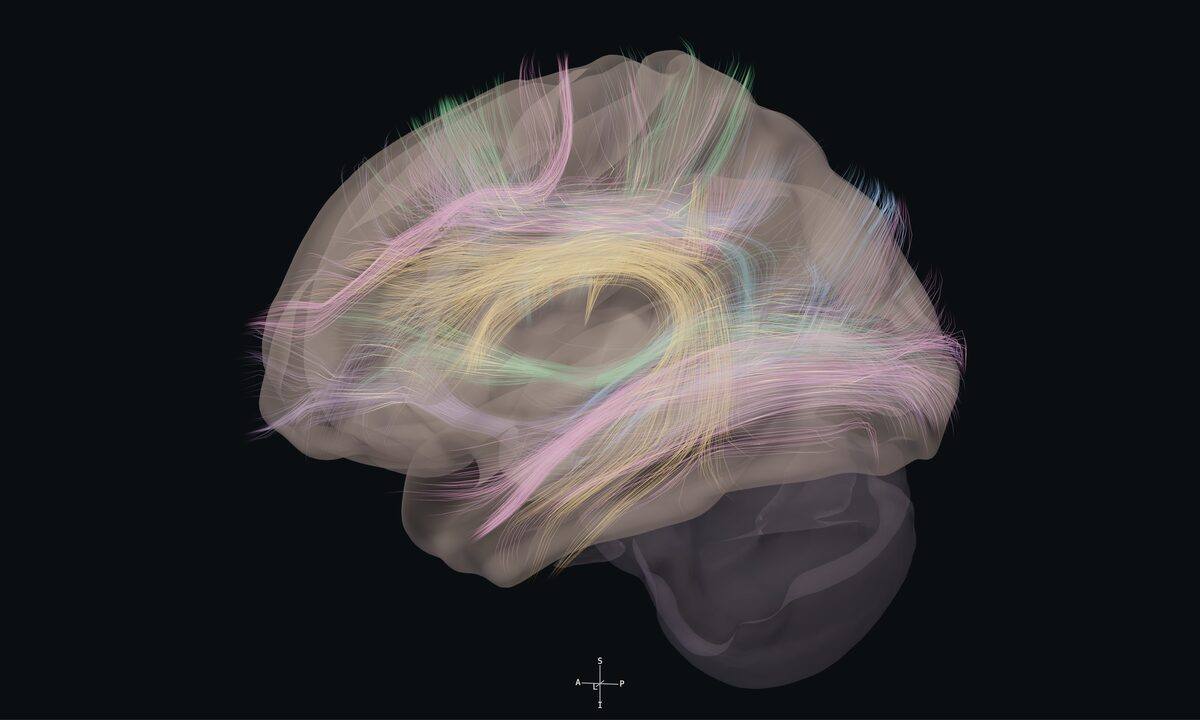
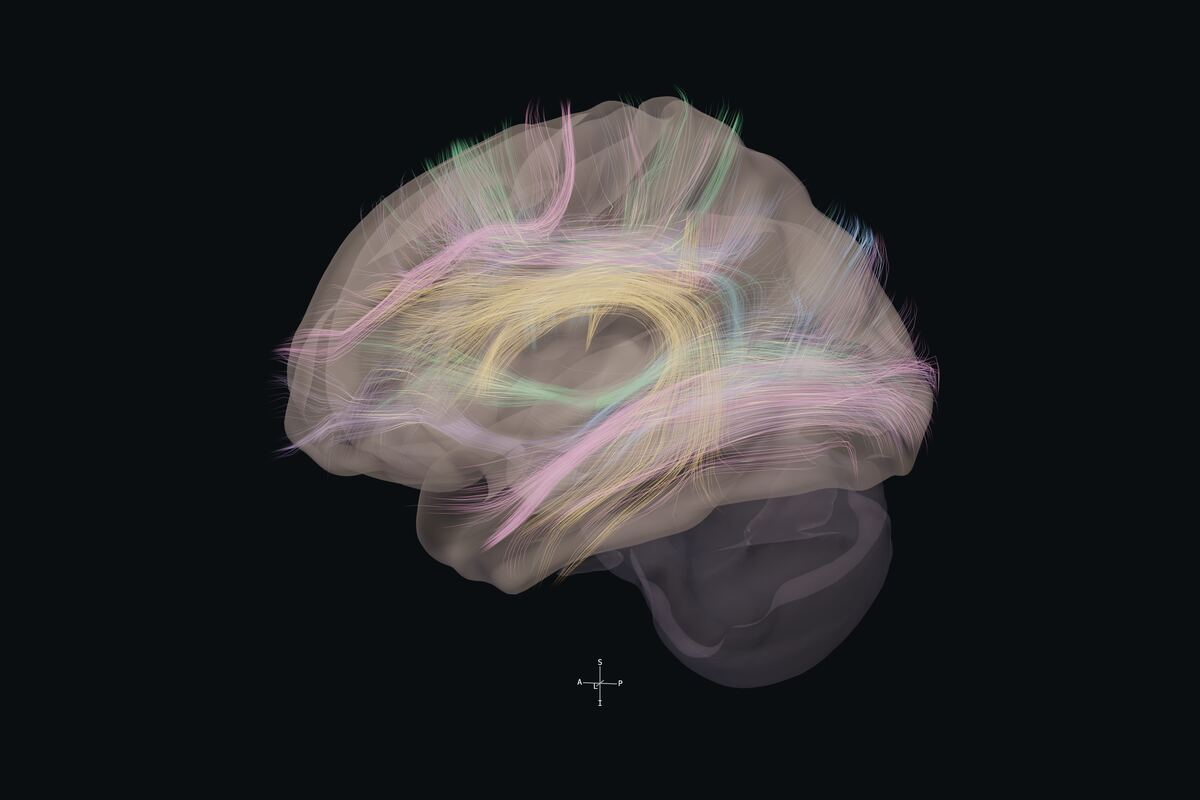
fix(landing): show the whole plate and fill every frame with anatomy
- Hero becomes a two-column grid: copy left, the crisp superior tract plate
  right with object-fit contain, so no pole is cropped at any width; the
  plate is the launch-kit capture (3x) rather than the ghosted re-capture.
- Every family, lesson and move frame is trimmed to the anatomy before
  fitting, so the brains fill their boxes instead of floating in dark stage.
- Content sections cap at a readable width on wide screens; lesson rows run
  in two columns above 1500 px; the Case Conference plate is shown whole.

Claude-Session: https://claude.ai/code/session_01QdqKjfjxKtYtLqsH6N28s7

Changed region(s): [[0.185, 0.0611, 0.8017, 0.9778], [0.4933, 0.9472, 0.5242, 0.9778]]

diff --git a/viewer/landing.css b/viewer/landing.css
@@ -23,27 +23,29 @@ main.landing{max-width:none;margin:0;padding:0}
 .landing .cta-secondary{border:calc(var(--space-3xs) / 2) solid var(--color-rule-2);color:var(--color-ink)}
 
 /* Full-bleed plate, shared header, bottom-aligned copy and capture caption. */
-.hero{position:relative;isolation:isolate;display:flex;flex-direction:column;min-height:calc(var(--space-3xl) * 8.5);background:var(--color-stage)}
-.hero-plate,.hero-scrim{position:absolute;inset:0;z-index:-1}
-.hero .hero-plate img{width:100%;height:100%;object-fit:cover;object-position:center 35%}
-.hero-scrim{background:linear-gradient(90deg,var(--color-paper) 0%,color-mix(in oklab,var(--color-paper) 55%,transparent) 45%,transparent 75%);pointer-events:none}
-.hero .studio-header{position:relative;top:auto;background:transparent;padding:var(--space-md) var(--page-gutter);min-height:calc(var(--control-height) + var(--space-xl))}
+.hero{position:relative;isolation:isolate;display:grid;grid-template-columns:minmax(0,5fr) minmax(0,7fr);grid-template-rows:auto minmax(0,1fr) auto;column-gap:var(--space-xl);background:var(--color-stage)}
+.hero-scrim{position:absolute;inset:0;z-index:-1}
+.hero-plate{grid-column:2;grid-row:2;position:relative;z-index:-2;display:flex;justify-content:flex-end;align-items:center;min-width:0;padding-right:var(--page-gutter)}
+.hero .hero-plate img{width:auto;max-width:100%;height:clamp(calc(var(--space-3xl) * 5.5),78vh,calc(var(--space-3xl) * 9.5));object-fit:contain}
+.hero-scrim{background:linear-gradient(90deg,var(--color-paper) 0%,color-mix(in oklab,var(--color-paper) 55%,transparent) 38%,transparent 52%);pointer-events:none}
+.hero .studio-header{grid-column:1 / -1;grid-row:1;position:relative;top:auto;background:transparent;padding:var(--space-md) var(--page-gutter);min-height:calc(var(--control-height) + var(--space-xl))}
 .hero .studio-header nav{width:auto;gap:var(--space-xs)}
 .hero .studio-header nav a{font-size:var(--text-sm);padding:0 var(--space-sm)}
-.hero-copy{position:relative;min-width:0;max-width:calc(var(--space-3xl) * 7);margin-top:auto;padding:var(--space-2xl) var(--page-gutter) var(--space-lg);display:flex;flex-direction:column;gap:var(--space-lg)}
+.hero-copy{grid-column:1;grid-row:2;align-self:end;position:relative;min-width:0;max-width:calc(var(--space-3xl) * 7);padding:var(--space-2xl) var(--page-gutter) var(--space-lg);display:flex;flex-direction:column;gap:var(--space-lg)}
 .hero-copy .lede{color:var(--color-ink)}
 .hero-actions{display:flex;align-items:center;gap:var(--space-md)}
 .hero-actions .cta{flex:none}
 .hero-actions .hero-note{font-size:var(--text-sm)}
-.hero .hero-caption{align-self:flex-end;font-size:var(--text-sm);padding:0 var(--page-gutter) var(--space-md)}
+.hero .hero-caption{grid-column:2;grid-row:3;justify-self:end;font-size:var(--text-sm);padding:0 var(--page-gutter) var(--space-md)}
+
+/* Wide screens: content sections cap at a readable width; the hero stays full-bleed. */
+.families,.curriculum,.case-band,.creator-data,.landing footer.source-footer{width:100%;max-width:calc(var(--space-3xl) * 18.5);margin-inline:auto;box-sizing:border-box}
 
 /* Four equal family frames separated by hairlines. */
 .families{display:grid;grid-template-columns:repeat(4,minmax(0,1fr));border-block:calc(var(--space-3xs) / 2) solid var(--color-rule)}
 .family{min-width:0;display:flex;flex-direction:column;gap:var(--space-sm);padding:var(--space-lg)}
 .family:not(:last-child){border-right:calc(var(--space-3xs) / 2) solid var(--color-rule)}
-.family img{width:100%;height:calc(var(--control-height) * 5);object-fit:cover;object-position:center 30%}
-.family:nth-child(2) img{object-position:center 40%}
-.family:nth-child(4) img{object-position:center}
+.family img{width:100%;height:auto;aspect-ratio:3/2;object-fit:cover;background:var(--color-stage)}
 .family h2{font-size:var(--text-md)}
 .family p{font-size:var(--text-sm)}
 
@@ -53,9 +55,10 @@ main.landing{max-width:none;margin:0;padding:0}
 .moves{display:grid;grid-template-columns:repeat(3,minmax(0,1fr));gap:var(--space-xs)}
 .moves img{width:100%;aspect-ratio:600/380;object-fit:cover;border:calc(var(--space-3xs) / 2) solid var(--color-rule)}
 .curriculum-intro .moves-caption{font-size:var(--text-sm);color:var(--color-faint)}
-.lesson-rows{list-style:none;padding:0;margin:0;min-width:0}
-.lesson-rows li{display:grid;grid-template-columns:minmax(0,10fr) minmax(0,32fr);gap:calc(var(--space-md) + var(--space-2xs));padding:calc(var(--space-md) + var(--space-2xs)) 0;border-top:calc(var(--space-3xs) / 2) solid var(--color-rule)}
-.lesson-rows img{width:100%;aspect-ratio:10/7;object-fit:cover;background:var(--color-stage);border:calc(var(--space-3xs) / 2) solid var(--color-rule)}
+.lesson-rows{list-style:none;padding:0;margin:0;min-width:0;display:grid;grid-template-columns:minmax(0,1fr);column-gap:var(--space-xl)}
+@media (min-width:1500px){.lesson-rows{grid-template-columns:repeat(2,minmax(0,1fr))}}
+.lesson-rows li{display:grid;grid-template-columns:minmax(0,1fr) minmax(0,3fr);align-items:start;gap:calc(var(--space-md) + var(--space-2xs));padding:calc(var(--space-md) + var(--space-2xs)) 0;border-top:calc(var(--space-3xs) / 2) solid var(--color-rule)}
+.lesson-rows img{width:100%;aspect-ratio:8/5;object-fit:cover;background:var(--color-stage);border:calc(var(--space-3xs) / 2) solid var(--color-rule)}
 .lesson-copy{display:flex;flex-direction:column;gap:var(--space-xs);min-width:0}
 .lesson-name{color:var(--color-ink);text-decoration:none}
 .lesson-name:hover{color:var(--color-accent)}
@@ -66,7 +69,7 @@ main.landing{max-width:none;margin:0;padding:0}
 .case-band{display:grid;grid-template-columns:repeat(2,minmax(0,1fr));align-items:center;min-height:calc(var(--space-2xl) * 8 + var(--space-xs));background:var(--color-stage);border-top:calc(var(--space-3xs) / 2) solid var(--color-rule)}
 .case-copy{display:flex;flex-direction:column;align-items:flex-start;gap:var(--space-md);min-width:0;padding:var(--space-xl) var(--page-gutter);max-width:var(--measure)}
 .case-copy .case-note{font-size:var(--text-sm);color:var(--color-faint)}
-.case-band>img{width:100%;height:100%;max-height:calc(var(--space-2xl) * 8 + var(--space-xs));object-fit:cover;object-position:center}
+.case-band>img{width:100%;height:auto;max-height:calc(var(--space-3xl) * 6);object-fit:contain;padding:var(--space-lg) var(--page-gutter);box-sizing:border-box}
 .creator-data{display:grid;grid-template-columns:repeat(2,minmax(0,1fr));gap:var(--space-2xl);padding:var(--space-2xl) var(--page-gutter);border-top:calc(var(--space-3xs) / 2) solid var(--color-rule)}
 .creator-data>div{min-width:0;display:flex;flex-direction:column;gap:var(--space-md)}
 footer.source-footer{margin:0;padding:calc(var(--space-md) * 2) var(--page-gutter) var(--space-xl)}
@@ -82,16 +85,18 @@ footer.source-footer>div{min-width:0}
   .lesson-rows li{grid-template-columns:minmax(0,1fr) minmax(0,3fr)}
 }
 @media (max-width:700px){
-  .hero{min-height:calc(var(--space-3xl) * 8)}
+  .hero{grid-template-columns:minmax(0,1fr);grid-template-rows:auto auto auto auto;column-gap:0}
+  .hero-plate{grid-column:1;grid-row:2;justify-content:center;padding:var(--space-md) var(--page-gutter) 0}
+  .hero .hero-plate img{height:clamp(calc(var(--space-3xl) * 3.5),52vh,calc(var(--space-3xl) * 6))}
+  .hero-copy{grid-column:1;grid-row:3}
+  .hero .hero-caption{grid-column:1;grid-row:4;justify-self:start}
   .hero .studio-header{gap:var(--space-xs)}
   .hero .studio-header nav{width:100%;justify-content:space-between;flex-wrap:wrap;gap:var(--space-2xs)}
   .hero .studio-header nav a{padding:0;font-size:var(--text-sm);min-height:var(--control-height)}
   .hero .studio-header nav .header-sources{margin:0}
-  .hero-copy{gap:var(--space-md);padding-top:var(--space-3xl)}
+  .hero-copy{gap:var(--space-md);padding-top:var(--space-lg)}
   .hero-actions{flex-wrap:wrap;gap:var(--space-sm)}
   .hero .hero-caption{align-self:flex-start}
-  /* Narrow crops put bright fibres behind copy and nav. Fade the plate onto its solid stage. */
-  .hero-plate{opacity:.55}
   .family{padding:var(--space-md);gap:var(--space-xs)}
   .family img{height:auto;aspect-ratio:5/4}
   .curriculum{padding:var(--space-2xl) var(--page-gutter)}
@@ -99,7 +104,7 @@ footer.source-footer>div{min-width:0}
   .lesson-rows img{aspect-ratio:8/5}
   .case-band,.creator-data{grid-template-columns:minmax(0,1fr)}
   .case-copy{padding:var(--space-xl) var(--page-gutter)}
-  .case-band>img{height:auto;max-height:none;aspect-ratio:1}
+  .case-band>img{max-height:none;padding:0 var(--page-gutter) var(--space-lg)}
   .case-copy .cta{padding-inline:var(--space-md);font-size:var(--text-sm)}
   .creator-data{gap:var(--space-xl)}
 }

diff --git a/viewer/index.html b/viewer/index.html
@@ -32,8 +32,8 @@
 <main class="landing">
   <section class="hero" data-hero aria-labelledby="heroTitle">
     <picture class="hero-plate">
-      <source media="(max-width: 700px)" srcset="./media/landing/hero-superior-commissural-1200-20260914.jpg" width="1200" height="675">
-      <img src="./media/landing/hero-superior-commissural-1920-20260914.jpg" alt="Commissural and projection bundles on the reference brain, viewed from above." width="1920" height="1080" fetchpriority="high" decoding="async">
+      <source media="(max-width: 700px)" srcset="./media/landing/hero-superior-commissural-1200-20260914.jpg" width="879" height="1000">
+      <img src="./media/landing/hero-superior-commissural-1920-20260914.jpg" alt="Commissural and projection bundles on the reference brain, viewed from above." width="1583" height="1800" fetchpriority="high" decoding="async">
     </picture>
     <div class="hero-scrim" data-hero-scrim aria-hidden="true"></div>
     <header class="studio-header"><a class="brand" href="./index.html" title="Brain networks and white matter tracts for intra-axial surgery"><svg class="brand-mark" viewBox="0 0 64 64" width="28" height="28" aria-hidden="true" focusable="false"><path d="M10 46 C 24 44, 30 30, 40 24 S 54 16, 56 14" fill="none" stroke-width="4" stroke-linecap="round"/><path class="f" d="M8 40 C 22 40, 28 26, 38 20 S 50 12, 54 10" fill="none" stroke-width="3" stroke-linecap="round"/><path class="f" d="M12 52 C 26 50, 34 36, 44 30 S 56 22, 58 20" fill="none" stroke-width="3" stroke-linecap="round"/><circle class="n" cx="10" cy="46" r="5"/><circle class="n" cx="40" cy="24" r="5"/><circle class="d" cx="56" cy="14" r="5"/></svg><span class="brand-name">Hodos</span></a>
@@ -48,10 +48,10 @@
   </section>
 
   <section class="families" data-families aria-label="Anatomical families">
-    <div class="family"><img src="./media/landing/family-association-20260914.jpg" alt="Association pathways shown together on the reference brain." width="1200" height="720" loading="lazy" decoding="async"><h2>Association</h2><p>Arcuate, SLF, IFOF, ILF, uncinate, frontal aslant.</p></div>
-    <div class="family"><img src="./media/landing/family-projection-limbic-20260914.jpg" alt="Projection and limbic pathways in the reference atlas." width="1200" height="720" loading="lazy" decoding="async"><h2>Projection &amp; limbic</h2><p>Corticospinal, thalamic radiations, cingulum, fornix.</p></div>
-    <div class="family"><img src="./media/landing/family-language-20260914.jpg" alt="Left hemisphere reference view of dorsal and ventral language pathways." width="1200" height="720" loading="lazy" decoding="async"><h2>Language</h2><p>Dorsal and ventral streams on the left hemisphere.</p></div>
-    <div class="family"><img src="./media/landing/family-networks-20260914.jpg" alt="Default mode network highlighted on the reference cortex." width="1200" height="720" loading="lazy" decoding="async"><h2>Networks</h2><p>Yeo-7 networks painted on the cortex, here the default mode network.</p></div>
+    <div class="family"><img src="./media/landing/family-association-20260914.jpg" alt="Association pathways shown together on the reference brain." width="1200" height="800" loading="lazy" decoding="async"><h2>Association</h2><p>Arcuate, SLF, IFOF, ILF, uncinate, frontal aslant.</p></div>
+    <div class="family"><img src="./media/landing/family-projection-limbic-20260914.jpg" alt="Projection and limbic pathways in the reference atlas." width="1200" height="800" loading="lazy" decoding="async"><h2>Projection &amp; limbic</h2><p>Corticospinal, thalamic radiations, cingulum, fornix.</p></div>
+    <div class="family"><img src="./media/landing/family-language-20260914.jpg" alt="Left hemisphere reference view of dorsal and ventral language pathways." width="1200" height="800" loading="lazy" decoding="async"><h2>Language</h2><p>Dorsal and ventral streams on the left hemisphere.</p></div>
+    <div class="family"><img src="./media/landing/family-networks-20260914.jpg" alt="Default mode network highlighted on the reference cortex." width="1200" height="800" loading="lazy" decoding="async"><h2>Networks</h2><p>Yeo-7 networks painted on the cortex, here the default mode network.</p></div>
   </section>
 
   <section class="curriculum" aria-labelledby="curriculumTitle">
